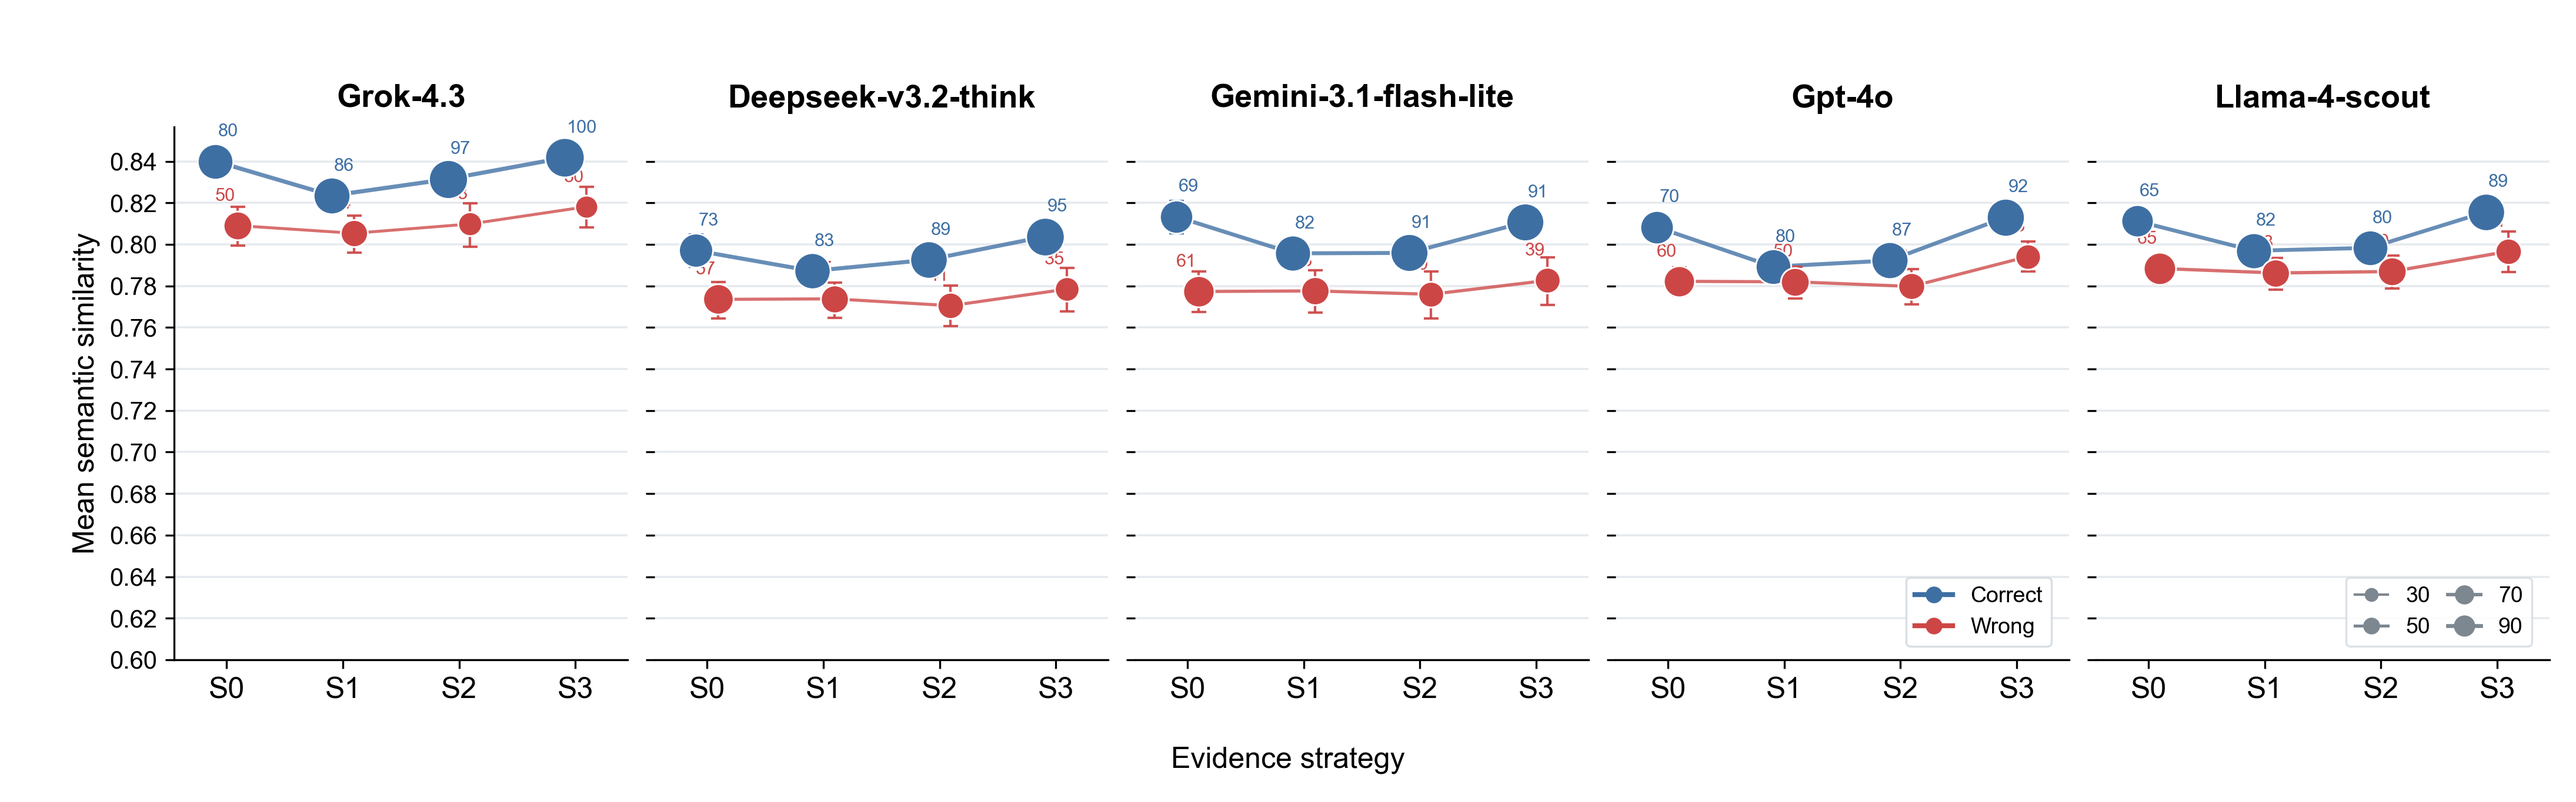
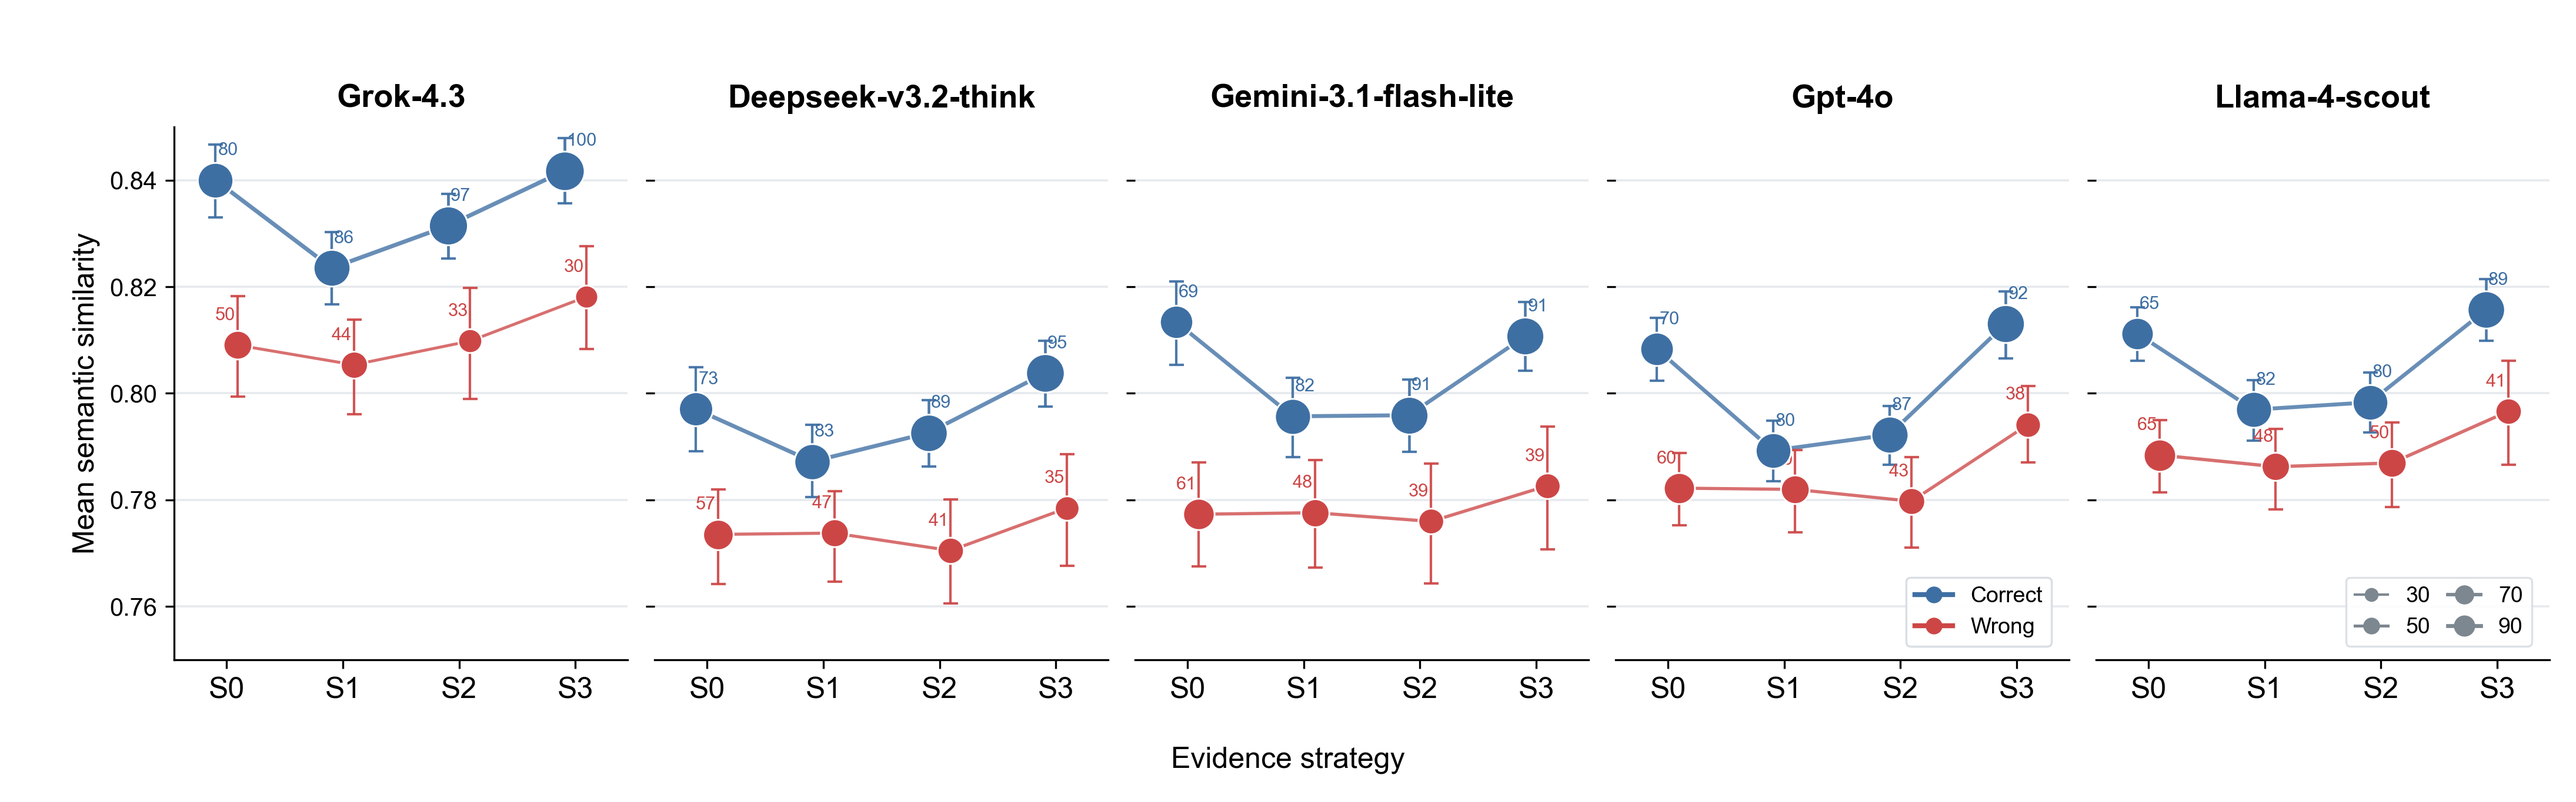
Set Gemini descriptor similarity axis to 0.75-0.85 with 0.02 ticks

diff --git a/quantitative-linguistic-analysis/3b_mean_rationale_mechanism_similarity/plot_strategy_outcome_similarity.py b/quantitative-linguistic-analysis/3b_mean_rationale_mechanism_similarity/plot_strategy_outcome_similarity.py
@@ -500,6 +500,7 @@ def plot_model_group(
     y_max_override: float | None = None,
     y_tick_step_override: float | None = None,
     legend_panel_indices: tuple[int, int] | None = None,
+    y_tick_start_override: float | None = None,
 ) -> Path:
     output_dir.mkdir(parents=True, exist_ok=True)
     strategies = [0, 1, 2, 3]
@@ -539,7 +540,8 @@ def plot_model_group(
                 if y_tick_step_override is not None
                 else 0.005 if y_max - y_min <= 0.05 else 0.02
             )
-            ax.set_yticks(np.arange(y_min, y_max + 1e-12, tick_step))
+            tick_start = y_min if y_tick_start_override is None else y_tick_start_override
+            ax.set_yticks(np.arange(tick_start, y_max + 1e-12, tick_step))
             ax.set_ylim(y_min, y_max)
         if model_index > 0:
             ax.spines["left"].set_visible(False)
@@ -631,6 +633,12 @@ def plot_summary(
         else:
             y_max_override = 0.943 if encoder == "semcse-cosine" else None
         y_tick_step_override = 0.05 if encoder == "semcse-null-percentile" else None
+        y_tick_start_override = None
+        if encoder == "gemini-embedding-2" and output_suffix == "physicochemical-descriptor":
+            y_min_override = 0.75
+            y_max_override = 0.85
+            y_tick_start_override = 0.76
+            y_tick_step_override = 0.02
         legend_panel_indices = (
             (0, 1)
             if encoder in {"biomedbert", "semcse-cosine", "semcse-null-percentile"}
@@ -649,6 +657,7 @@ def plot_summary(
                 y_max_override=y_max_override,
                 y_tick_step_override=y_tick_step_override,
                 legend_panel_indices=legend_panel_indices,
+                y_tick_start_override=y_tick_start_override,
             )
         )
     return paths
